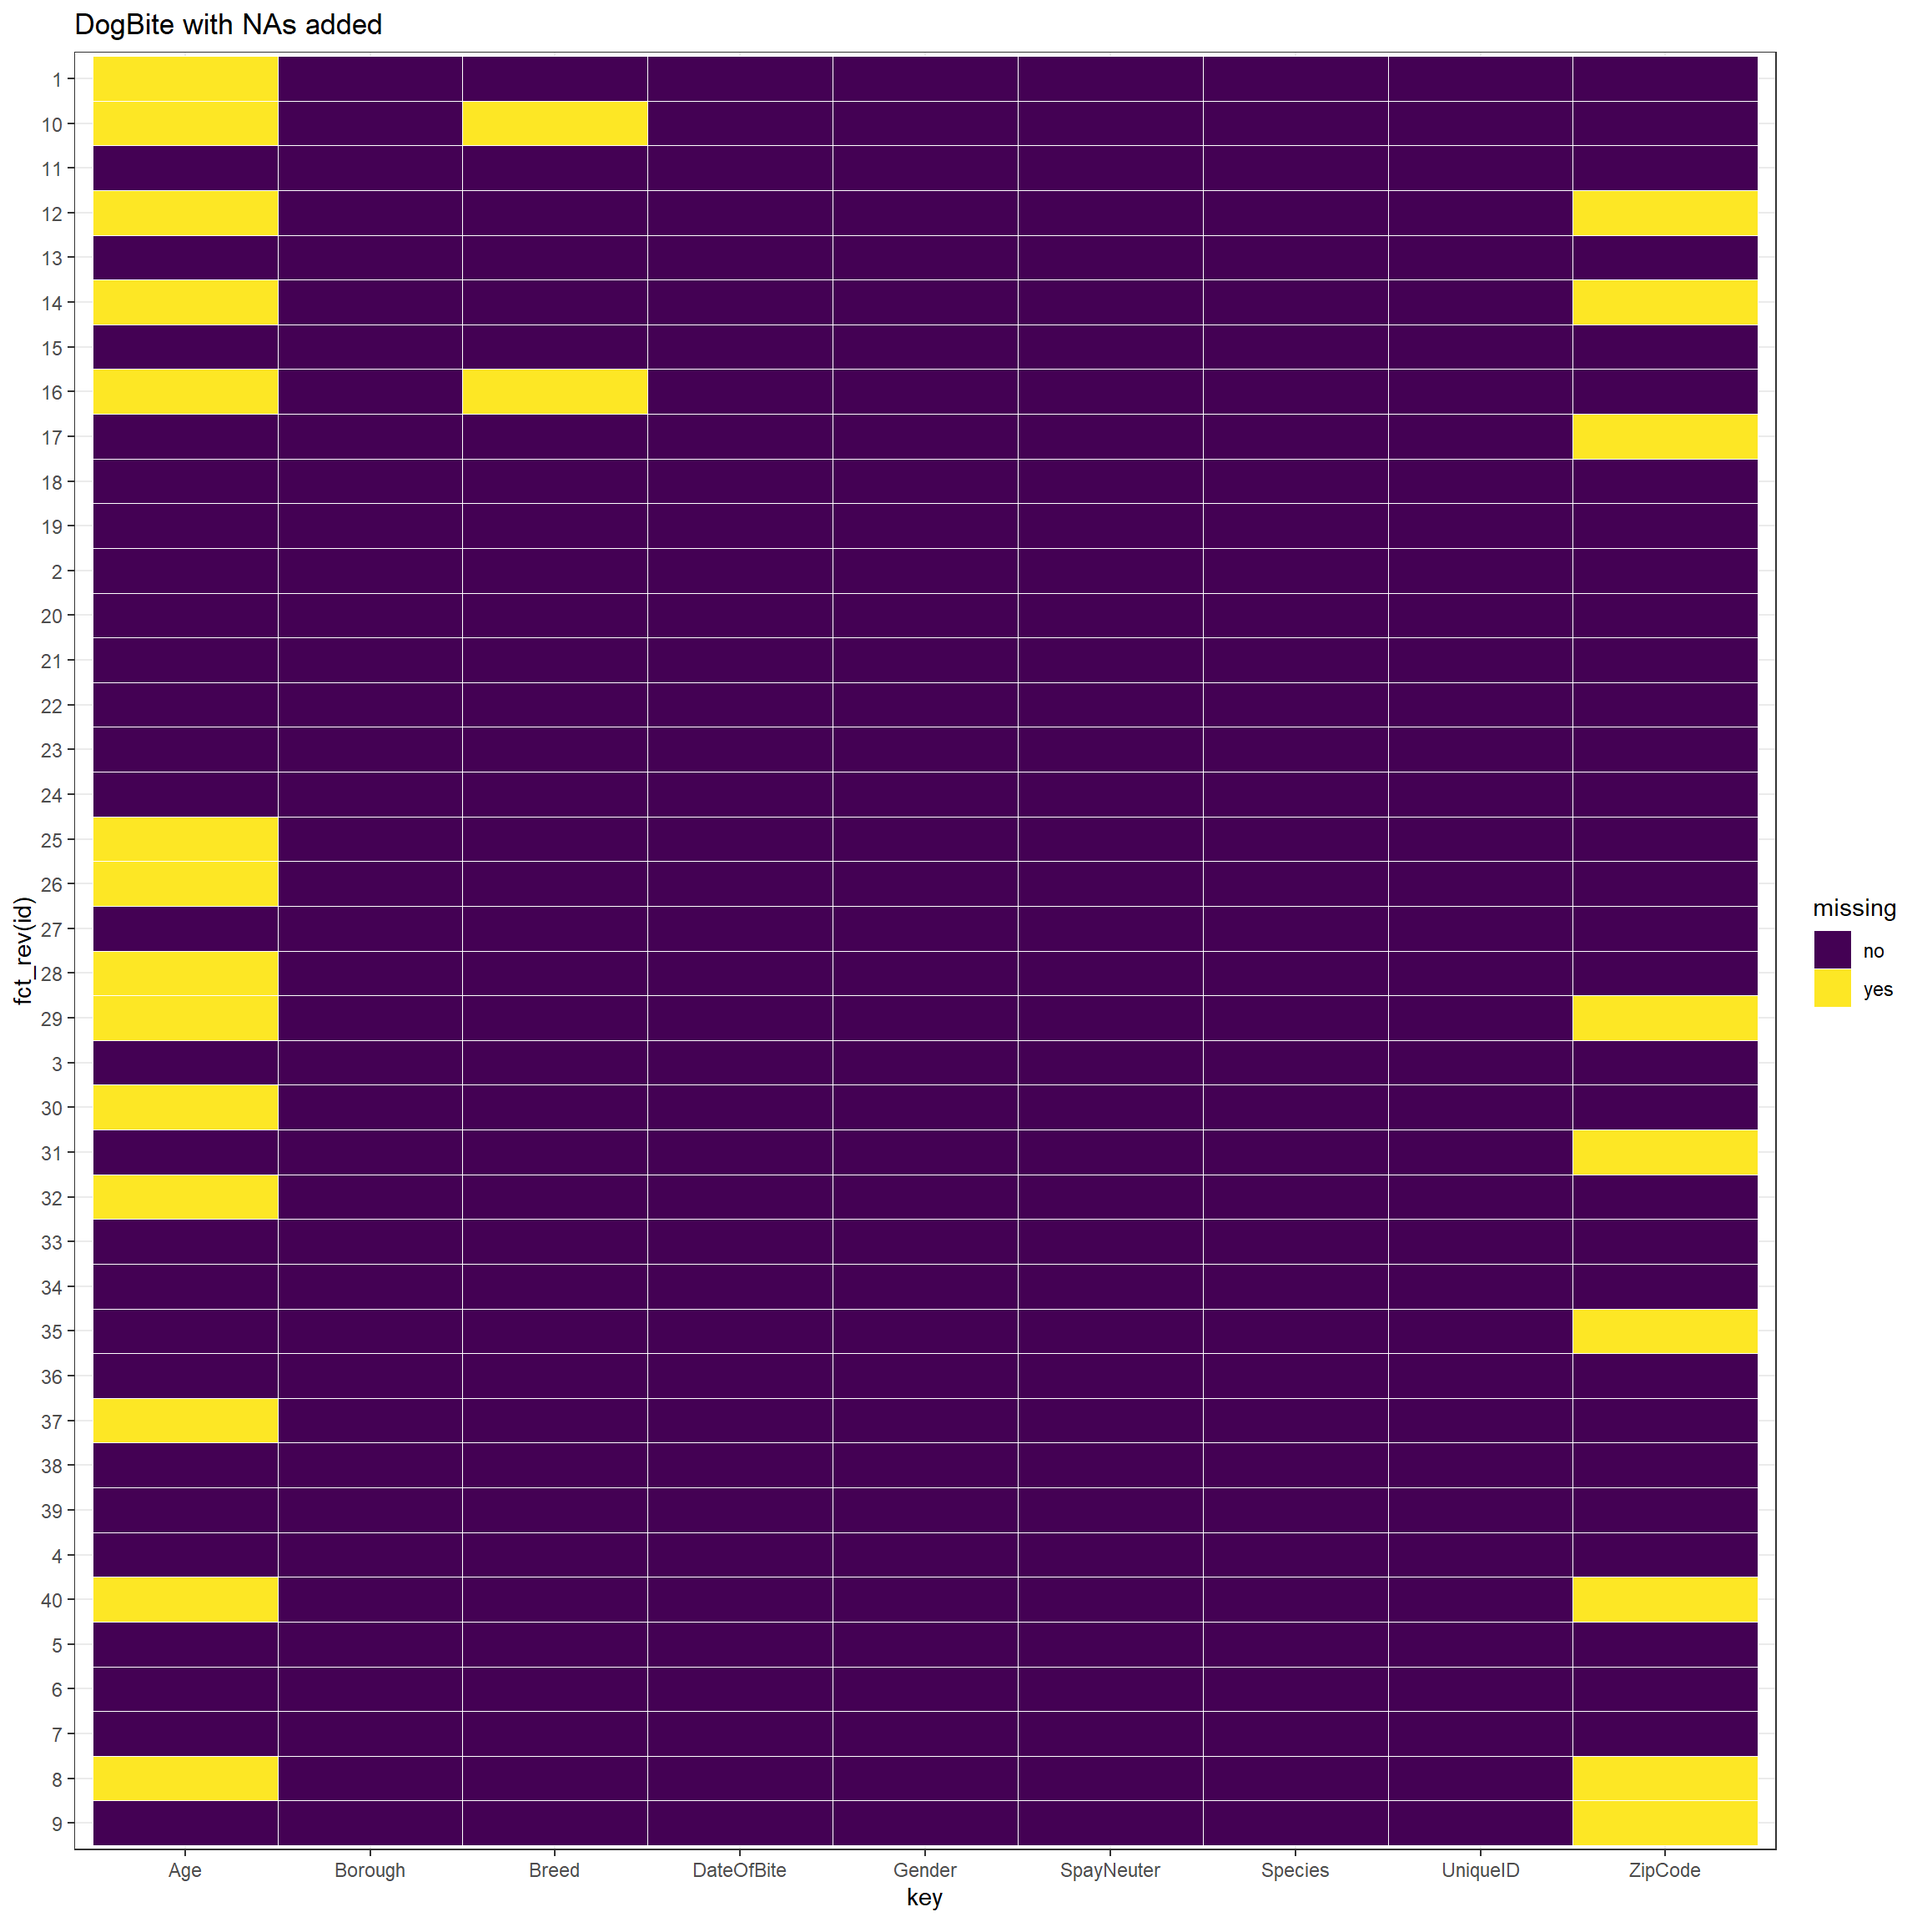
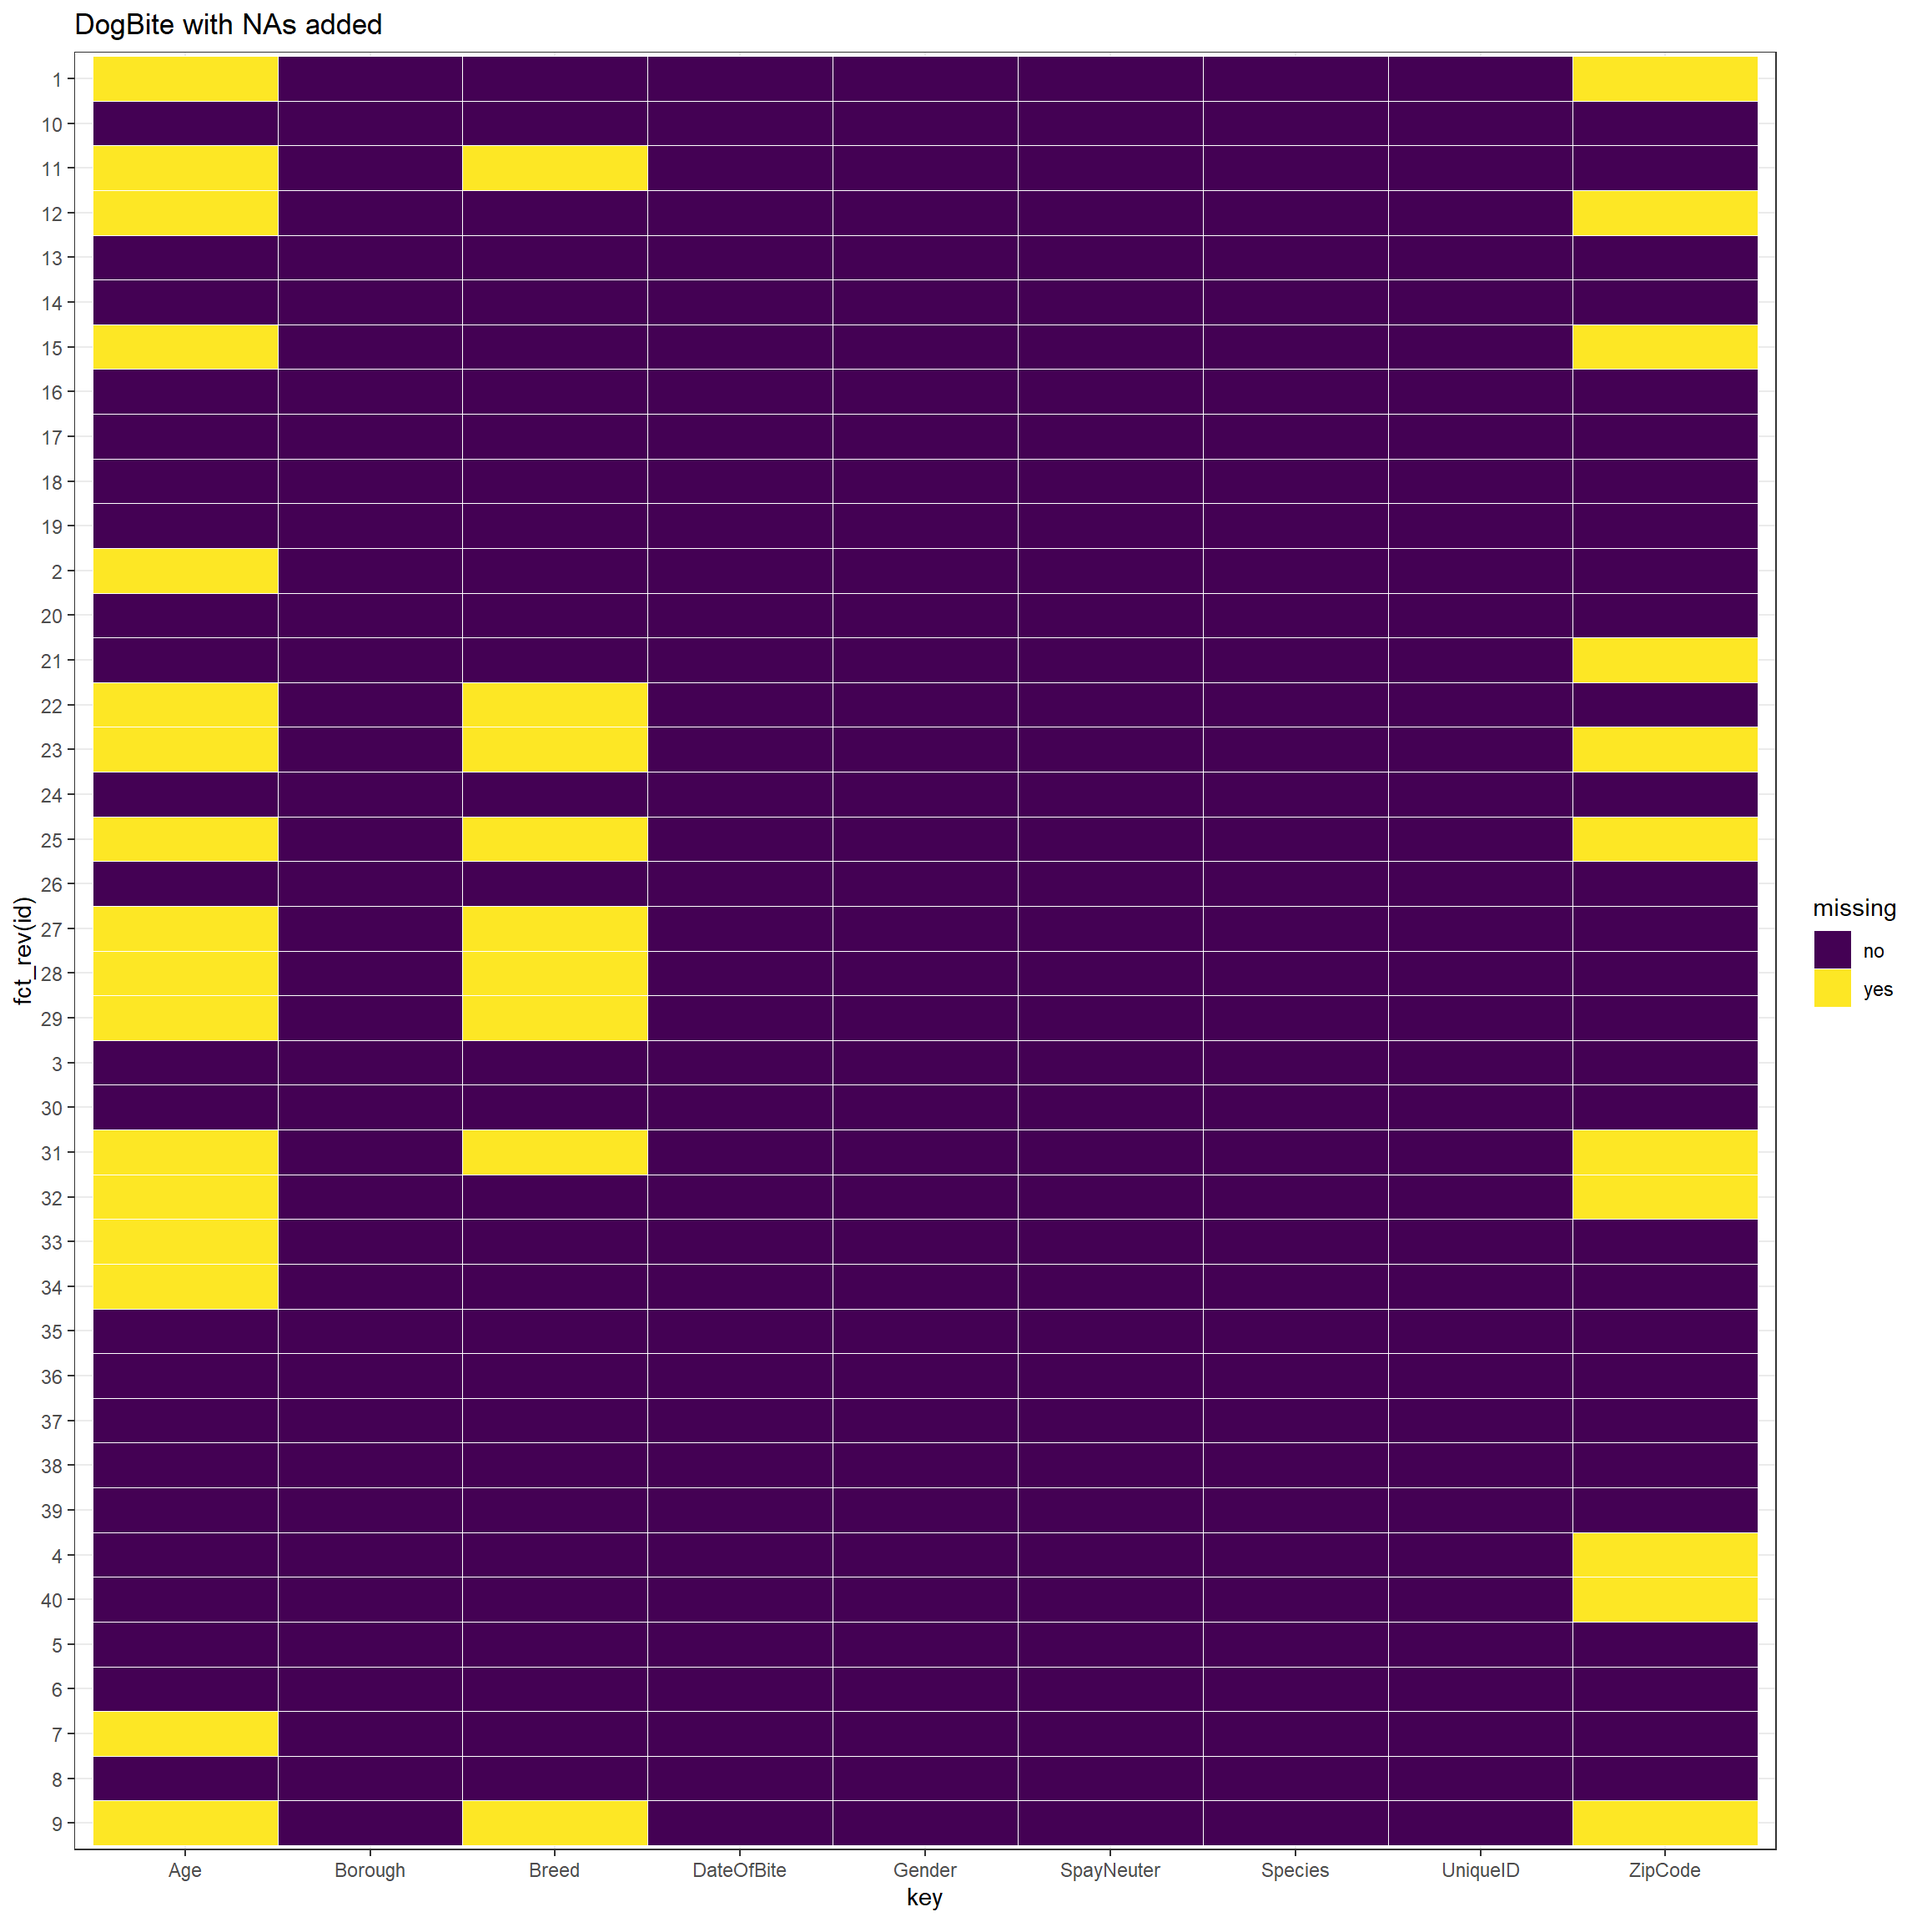
commit

diff --git a/docs/missing-values.html b/docs/missing-values.html
@@ -153,7 +153,7 @@
 <div id="missing-values-by-row" class="section level2" number="4.3">
 <h2><span class="header-section-number">4.3</span> Missing values by row</h2>
 <p>Since we have 10280 rows, it is not clear if we continue analyzing with all of the data. Our data only contains one file, thus we randomly select 40 rows for analysis.</p>
-<pre><code>##  [1] 2 2 2 2 2 2 2 1 1 1 1 1 1 1 1 1 1 1 0 0 0 0 0 0 0 0 0 0 0 0
+<pre><code>##  [1] 3 3 3 3 2 2 2 2 2 2 2 2 2 1 1 1 1 1 1 1 0 0 0 0 0 0 0 0 0 0
 ## [31] 0 0 0 0 0 0 0 0 0 0</code></pre>
 <p>Then we show missing values by row from large to small. We found that rows with the most missing values miss 3 values (i.e, “Age”, “ZipCode”, and “Breed”), while rows with the least missing values miss 0 value. There are only a small part of events in which all three values are missing.</p>
 </div>
@@ -181,23 +181,30 @@
 <pre><code>## [1] &quot;missing_data.frame&quot;
 ## attr(,&quot;package&quot;)
 ## [1] &quot;mi&quot;</code></pre>
-<pre><code>##  [1] Age          nothing      nothing      nothing     
-##  [5] nothing      nothing      nothing      Age, ZipCode
-##  [9] ZipCode      Breed, Age   nothing      Age, ZipCode
-## [13] nothing      Age, ZipCode nothing      Breed, Age  
-## [17] ZipCode      nothing      nothing      nothing     
-## [21] nothing      nothing      nothing      nothing     
-## [25] Age          Age          nothing      Age         
-## [29] Age, ZipCode Age          ZipCode      Age         
-## [33] nothing      nothing      ZipCode      nothing     
-## [37] Age          nothing      nothing      Age, ZipCode
-## Levels: nothing Age ZipCode Age, ZipCode Breed, Age</code></pre>
+<pre><code>##  [1] Age, ZipCode        Age                 nothing            
+##  [4] ZipCode             nothing             nothing            
+##  [7] Age                 nothing             Breed, Age, ZipCode
+## [10] nothing             Breed, Age          Age, ZipCode       
+## [13] nothing             nothing             Age, ZipCode       
+## [16] nothing             nothing             nothing            
+## [19] nothing             nothing             ZipCode            
+## [22] Breed, Age          Breed, Age, ZipCode nothing            
+## [25] Breed, Age, ZipCode nothing             Breed, Age         
+## [28] Breed, Age          Breed, Age          nothing            
+## [31] Breed, Age, ZipCode Age, ZipCode        Age                
+## [34] Age                 nothing             nothing            
+## [37] nothing             nothing             nothing            
+## [40] ZipCode            
+## 6 Levels: nothing Age ZipCode Age, ZipCode ... Breed, Age, ZipCode</code></pre>
 <p>This part lists the situation of missing values of our 40 samples. Each one indicates the kinds of values that are missed in each sample.</p>
-<pre><code>## [1] &quot;nothing&quot;      &quot;Age&quot;          &quot;ZipCode&quot;      &quot;Age, ZipCode&quot;
-## [5] &quot;Breed, Age&quot;</code></pre>
+<pre><code>## [1] &quot;nothing&quot;             &quot;Age&quot;                
+## [3] &quot;ZipCode&quot;             &quot;Age, ZipCode&quot;       
+## [5] &quot;Breed, Age&quot;          &quot;Breed, Age, ZipCode&quot;</code></pre>
 <p>This part lists all of the patterns above.</p>
-<pre><code>##      nothing          Age      ZipCode Age, ZipCode   Breed, Age 
-##           22            7            4            5            2</code></pre>
+<pre><code>##             nothing                 Age             ZipCode 
+##                  20                   4                   3 
+##        Age, ZipCode          Breed, Age Breed, Age, ZipCode 
+##                   4                   5                   4</code></pre>
 <p>This part shows the specific counts of patterns above.</p>
 <p>Then, we aim to create a missing values plot in the style of extracat::visna() (no longer available on CRAN) using ggplot2. First, we create the function for creating missing plots.</p>
 <p>Then we use the function to draw the plot. Note that we use the entire dataset instead of our 40 samples in this part for better discussion.</p>
